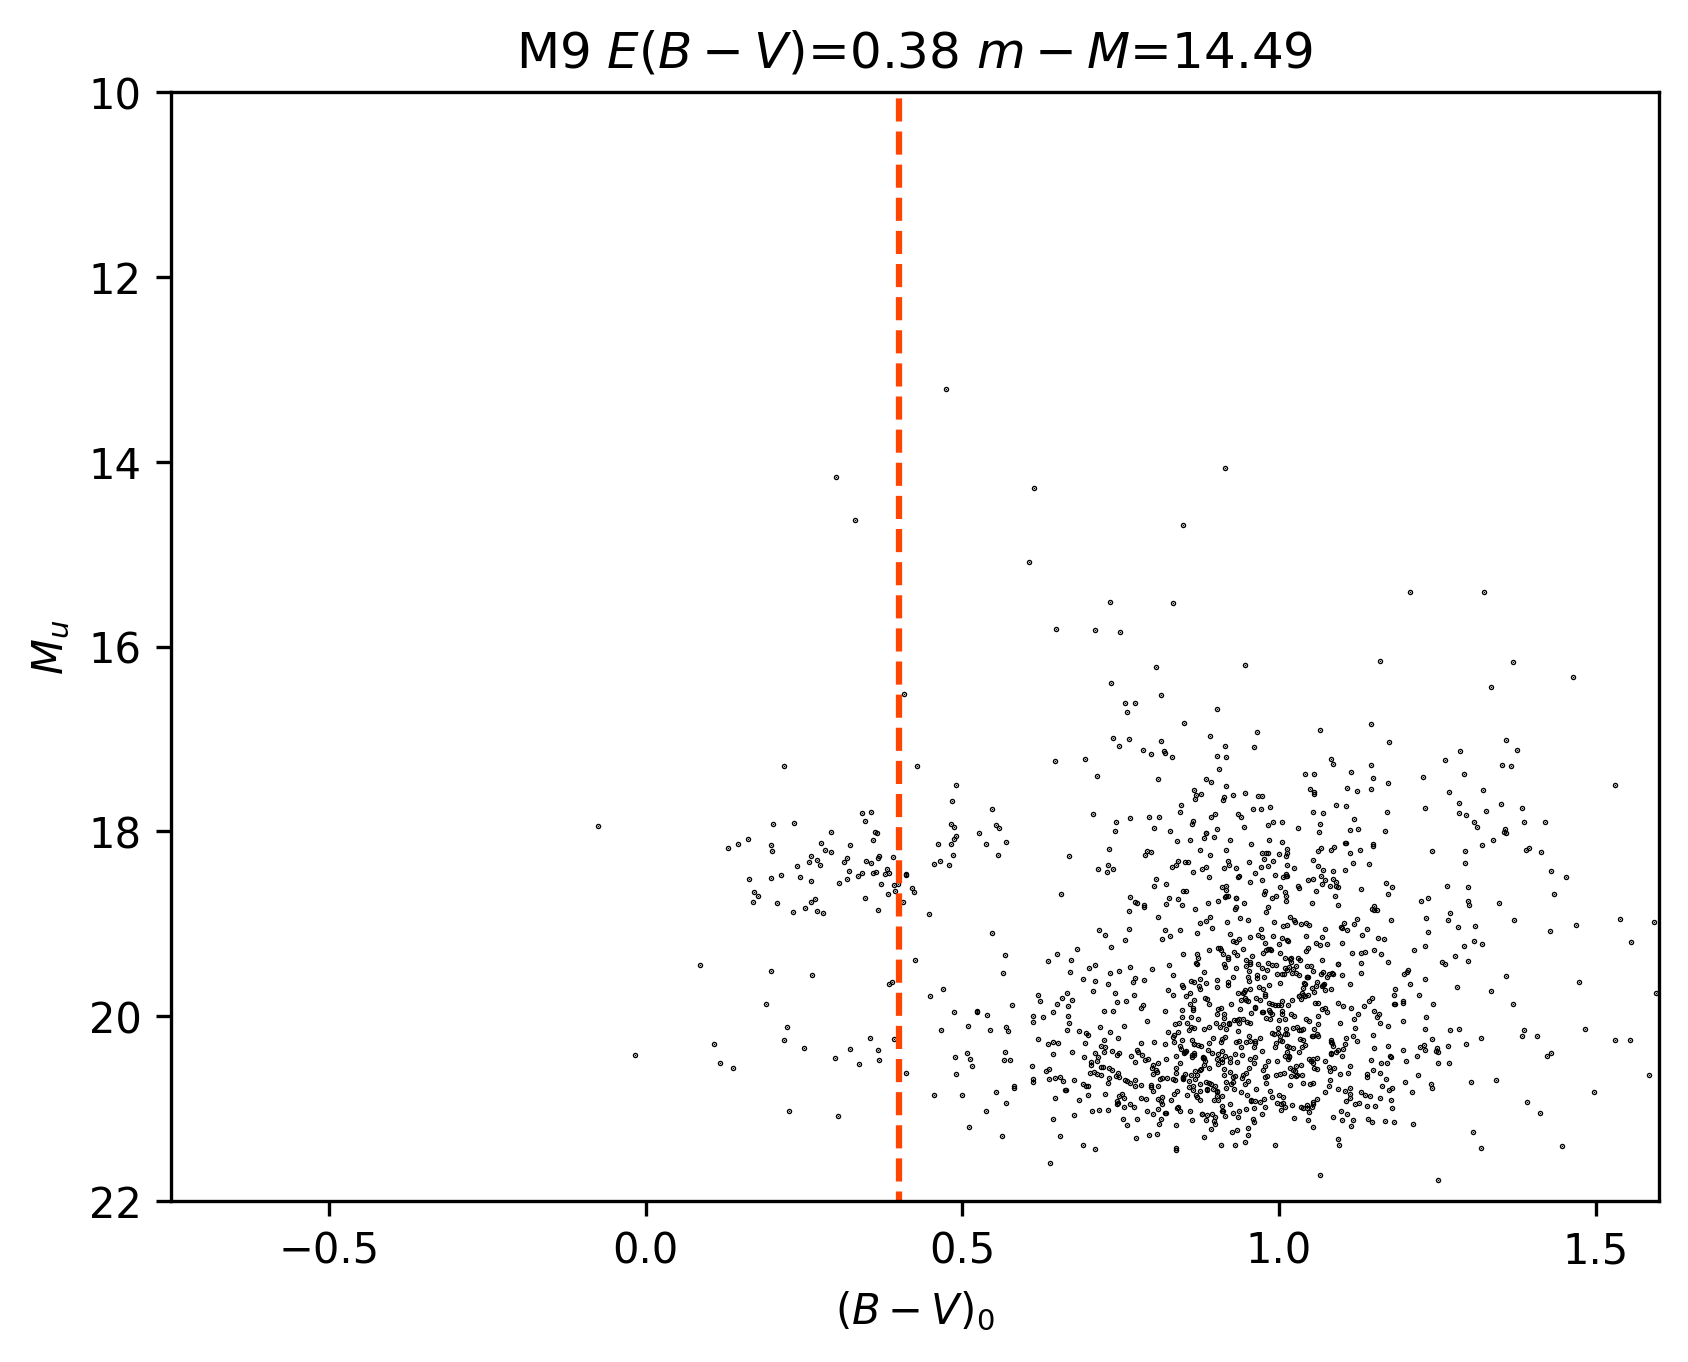
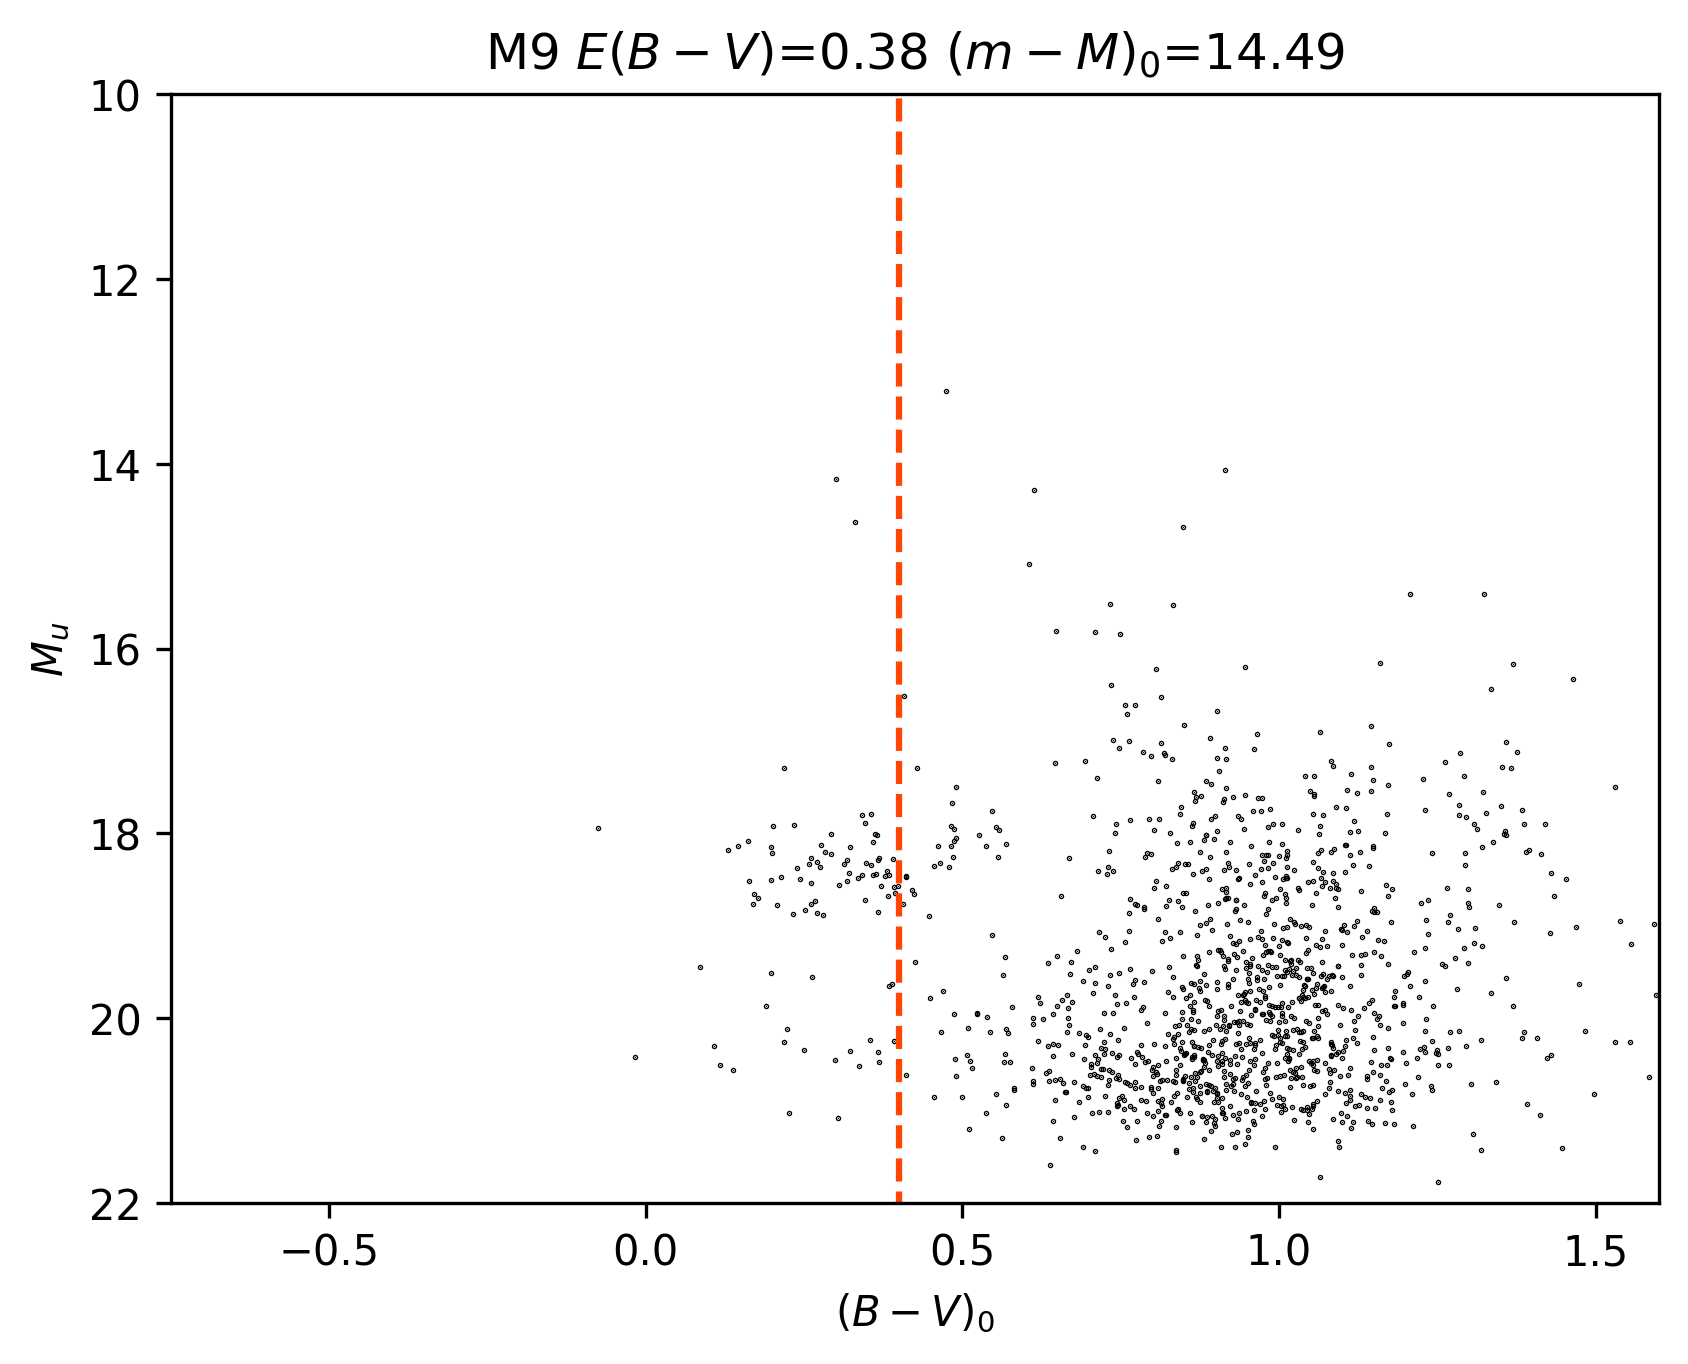
Changed parallax check to 5 sigma instead of 3 sigma, added _0 to distance modulus in plots and files.

diff --git a/trial.py b/trial.py
@@ -13,7 +13,7 @@ import logging
 ## Explainer: Currently creating CMDs using unprocessed (dereddening), observed mag values. CandStar lists of both UBV
 ## and VBV are produced. HEB checking individuals.
 
-ext = "testing123"
+ext = "5Sigma"
 
 def coordTransfer(ra, dec):
     raString = ra.split(" ")
@@ -123,7 +123,7 @@ def DBSCANPlots(bv,v,b,u,vi,ub,ubbv,clusterName,cond,dist,raClust,decClust,c,r_c
     clusterCore = coordTransfer(raClust, decClust)
     angSep = arcMinAngularSep(clusterCore[0],clusterCore[1], dat2["col2"],dat2["col3"])
     parStarErr, parDiff = parallaxError(dist)
-    parCond = np.where(parDiff < 3*parStarErr)[0]
+    parCond = np.where(parDiff < 5*parStarErr)[0]
     tidalRad = tidalRadius(c,r_c)
     tidalCond = np.where(angSep<tidalRad)[0]
     indAll = np.intersect1d(indAll, tidalCond)
@@ -148,7 +148,7 @@ def DBSCANPlots(bv,v,b,u,vi,ub,ubbv,clusterName,cond,dist,raClust,decClust,c,r_c
 
     #HB Model Equation
     y2 = model_f(bv[indAll], -3.74, 7.03, 6.83, -19.86, 8.98, -1.51, 0.35,0.05)
-    y_u = model_f(bv[indAll], -3.74, 7.03, 6.83, -19.86, 8.98, -1.51, 1.65, 0.5)
+    y_u = model_f(bv[indAll], -3.74, 7.03, 6.83, -19.86, 8.98, -1.51, 1.65, 0.8)
 
     #y2 = model_f(bv[indAll], -3.74, 7.03, 6.83, -19.86, 8.98, -1.51, 0.83)
     UVBrightCond = np.logical_and(v[indAll]<y2,bv[indAll]<-0.05)
@@ -171,7 +171,7 @@ def DBSCANPlots(bv,v,b,u,vi,ub,ubbv,clusterName,cond,dist,raClust,decClust,c,r_c
     # y2 = model_f(bvRaw[indAll], -3.74, 7.03, 6.83, -19.86, 8.98, -1.51, 0.35, -0.15)
     # y2 = model_f(bv[indAll], -3.74, 7.03, 6.83, -19.86, 8.98, -1.51, 0.83)
     ax.scatter(bvRaw[indAll][UVBrightCond], vRaw[indAll][UVBrightCond], c='g', s=2)
-    ax.set_title("{} $E(B-V)$={:.2f} $m-M$={:.2f}".format(clusterName, ebv, distModulus))
+    ax.set_title("{} $E(B-V)$={:.2f} $(m-M)_0$={:.2f}".format(clusterName, ebv, distModulus))
     ax.set_xlim(-0.75, 1.3)
     ax.set_ylim(21, 11.5)
     ax.set_xlabel('$B-V$')
@@ -192,7 +192,7 @@ def DBSCANPlots(bv,v,b,u,vi,ub,ubbv,clusterName,cond,dist,raClust,decClust,c,r_c
     # y2 = model_f(bvRaw[indAll], -3.74, 7.03, 6.83, -19.86, 8.98, -1.51, 0.35, -0.15)
     # y2 = model_f(bv[indAll], -3.74, 7.03, 6.83, -19.86, 8.98, -1.51, 0.83)
     ax.scatter(bvRaw[indAll][UVBrightCond1], uRaw[indAll][UVBrightCond1], c='g', s=2)
-    ax.set_title("{} $E(B-V)$={:.2f} $m-M$={:.2f}".format(clusterName, ebv, distModulus))
+    ax.set_title("{} $E(B-V)$={:.2f} $(m-M)_0$={:.2f}".format(clusterName, ebv, distModulus))
     ax.set_xlim(-0.75, 1.3)
     ax.set_ylim(21, 13.5)
     ax.set_xlabel('$B-V$')
@@ -253,7 +253,7 @@ def DBSCANPlots(bv,v,b,u,vi,ub,ubbv,clusterName,cond,dist,raClust,decClust,c,r_c
     #ax.set_xlabel('(\textit{$B-V$})$_0$')
     ax.set_ylabel('M$_V$', style="italic")
     #ax.legend(loc="lower right", fontsize = "small")
-    ax.set_title("{} $E(B-V)$={:.2f} $m-M$={:.2f}".format(clusterName,ebv,distModulus))
+    ax.set_title("{} $E(B-V)$={:.2f} $(m-M)_0$={:.2f}".format(clusterName,ebv,distModulus))
     #fig.savefig('Plots/DBSCAN/VBV/VvsBV_%s_DBSCAN.png'%(clusterName,ext),bbox_inches='tight',dpi=300)
     fig.savefig('Plots/DBSCAN/VBV/VvsBV_%s_DBSCAN_%s.png'%(clusterName,ext),bbox_inches='tight',dpi=300)    
     #breakpoint()
@@ -266,7 +266,7 @@ def DBSCANPlots(bv,v,b,u,vi,ub,ubbv,clusterName,cond,dist,raClust,decClust,c,r_c
     ax.set_ylim(22, 10)
     ax.set_xlabel('($B-V$)$_0$')
     ax.set_ylabel('M$_V$', style="italic")
-    ax.set_title("{} $E(B-V)$={:.2f} $m-M$={:.2f}".format(clusterName, ebv, distModulus))
+    ax.set_title("{} $E(B-V)$={:.2f} $(m-M)_0$={:.2f}".format(clusterName, ebv, distModulus))
     # xplot = np.linspace(bvRaw[indAll].min(), bvRaw[indAll].max(), len(bv[indAll]))
     # y = model_f(xplot, -3.74, 7.03, 6.83, -19.86, 8.98, -1.51, 0.35, -0.15)
     # ax.plot(xplot, y, "r-")
@@ -279,7 +279,7 @@ def DBSCANPlots(bv,v,b,u,vi,ub,ubbv,clusterName,cond,dist,raClust,decClust,c,r_c
     ax.set_ylim(22, 10)
     ax.set_xlabel('($B-V$)$_0$')
     ax.set_ylabel('M$_u$', style="italic")
-    ax.set_title("{} $E(B-V)$={:.2f} $m-M$={:.2f}".format(clusterName, ebv, distModulus))
+    ax.set_title("{} $E(B-V)$={:.2f} $(m-M)_0$={:.2f}".format(clusterName, ebv, distModulus))
     # xplot = np.linspace(bvRaw[indAll].min(), bvRaw[indAll].max(), len(bv[indAll]))
     # y = model_f(xplot, -3.74, 7.03, 6.83, -19.86, 8.98, -1.51, 0.35, -0.15)
     # ax.plot(xplot, y, "r-")
@@ -317,7 +317,7 @@ def DBSCANPlots(bv,v,b,u,vi,ub,ubbv,clusterName,cond,dist,raClust,decClust,c,r_c
     #y = model_f(xplot, -3.74, 7.03, 6.83, -19.86, 8.98, -1.51, 2.1)
     xplot = np.linspace(bv[indAll].min(), bv[indAll].max(), len(bv[indAll]))
     # x_array = np.linspace(-0.6,1.3,100)
-    y = model_f(xplot, -3.74, 7.03, 6.83, -19.86, 8.98, -1.51, 1.65,0.5)
+    y = model_f(xplot, -3.74, 7.03, 6.83, -19.86, 8.98, -1.51, 1.65,0.8)
     # y = model_f(xplot, -3.74, 7.03, 6.83, -19.86, 8.98, -1.51, 0.83)
     ax.plot(xplot, y, "r-")
     ax.vlines(x=-0.05, ymin=-4, ymax=5)
@@ -330,7 +330,7 @@ def DBSCANPlots(bv,v,b,u,vi,ub,ubbv,clusterName,cond,dist,raClust,decClust,c,r_c
     #UVBrightCond = np.logical_and(u[indAll]<y2,bv[indAll]<-0.05)
     UVBrightCond1 = np.logical_and(u[indAll] < y_u, bv[indAll] < -0.05)
     ax.scatter(bv[indAll][UVBrightCond1],u[indAll][UVBrightCond1],c='g',s=2)
-    ax.set_title("{} $E(B-V)$={:.2f} $m-M$={:.2f}".format(clusterName, ebv, distModulus))
+    ax.set_title("{} $E(B-V)$={:.2f} $(m-M)_0$={:.2f}".format(clusterName, ebv, distModulus))
     ax.set_xlim(-0.75,1.3)
     ax.set_ylim(5,-4)
     ax.set_xlabel('($B-V$)$_0$')
@@ -398,10 +398,10 @@ def DBSCANPlots(bv,v,b,u,vi,ub,ubbv,clusterName,cond,dist,raClust,decClust,c,r_c
 
     #infiles = np.savetxt("candStars/CSVs/%s_candStars_%s.dat"%(clusterName,ext),fileArray, fmt="%d,%.6f,%.6f,%.2f,%.2f,%.2f,%.2f,%.4f,%.4f,%.4f,%.4f,%i", delimiter = ",",header="#,RA,Dec,(B-V)0,Mu,Mb,Mv,u,B,V,I,BlueFlag,E(B-V)={:.2f}, m-M = {:.2f},BlueFlag Note: if (V-I)0 > 0.331 + 1.444 * (B-V)0 then BlueFlag = 0".format(ebv,distModulus))
     #infiles1 = np.savetxt("candStars/TSVs/%s_candStars_%s.dat"%(clusterName,ext),fileArray2, fmt="%s\t%s\t%s\t%.2f\t%.2f\t%.2f\t%.2f\t%.4f\t%.4f\t%.4f\t%.4f\t%i", delimiter = "\t",header="{} E(B-V)={:.2f}, m-M = {:.2f}\nBlueFlag Note: if (V-I)0 > 0.331 + 1.444 * (B-V)0 then BlueFlag = 0\n\tRA\t\tDec\t\t(B-V)_0\tM_u\tM_B\tM_V\tu\tB\tV\tI\tBlueFlag".format(clusterName,ebv, distModulus))
-    infiles2 = np.savetxt("clusterMembers/%s_memberStars_%s.dat"%(clusterName,ext),fileArray3, fmt="%s\t%s\t%s\t%.2f\t%.2f\t%.2f\t%.2f\t%.4f\t%.4f\t%.4f\t%.4f\t%i", delimiter = "\t",header="{} E(B-V)={:.2f}, m-M = {:.2f}\nBlueFlag Note: if (V-I)0 > 0.331 + 1.444 * (B-V)0 then BlueFlag = 0\n\tRA\t\tDec\t\t(B-V)_0\tM_u\tM_B\tM_V\tu\tB\tV\tI\tBlueFlag".format(clusterName,ebv, distModulus))
+    infiles2 = np.savetxt("clusterMembers/%s_memberStars_%s.dat"%(clusterName,ext),fileArray3, fmt="%s\t%s\t%s\t%.2f\t%.2f\t%.2f\t%.2f\t%.4f\t%.4f\t%.4f\t%.4f\t%i", delimiter = "\t",header="{} E(B-V)={:.2f}, (m-M)_0 = {:.2f}\nBlueFlag Note: if (V-I)0 > 0.331 + 1.444 * (B-V)0 then BlueFlag = 0\n\tRA\t\tDec\t\t(B-V)_0\tM_u\tM_B\tM_V\tu\tB\tV\tI\tBlueFlag".format(clusterName,ebv, distModulus))
     #infiles3 = np.savetxt("candStars/TSVs/uBVCandStars/%s_uBVcandStars_%s.dat"%(clusterName,ext),fileArray4, fmt="%s\t%s\t%s\t%.2f\t%.2f\t%.2f\t%.2f\t%.4f\t%.4f\t%.4f\t%.4f\t%i", delimiter = "\t",header="{} E(B-V)={:.2f}, m-M = {:.2f}\nBlueFlag Note: if (V-I)0 > 0.331 + 1.444 * (B-V)0 then BlueFlag = 0\n\tRA\t\tDec\t\t(B-V)_0\tM_u\tM_B\tM_V\tu\tB\tV\tI\tBlueFlag".format(clusterName,ebv, distModulus))
-    infiles4 = np.savetxt("nonMembers/%s_nonMembers_%s.dat"%(clusterName, ext),fileArray5, fmt="%s\t%s\t%s\t%.2f\t%.2f\t%.2f\t%.2f\t%.4f\t%.4f\t%.4f\t%.4f", delimiter = "\t",header="{} E(B-V)={:.2f}, m-M = {:.2f}\n\tRA\t\tDec\t\t(B-V)_0\tM_u\tM_B\tM_V\tu\tB\tV\tI".format(clusterName,ebv, distModulus))
-    infiles5 = np.savetxt("candStars/candStarMasterList/%s_candStarsMaster_%s.dat"%(clusterName,ext),candStarMasterList, fmt="%s\t%s\t%s\t%.2f\t%.2f\t%.2f\t%.2f\t%.4f\t%.4f\t%.4f\t%.4f\t%i", delimiter = "\t",header="{} E(B-V)={:.2f}, m-M = {:.2f}\nBlueFlag Note: if (V-I)0 > 0.331 + 1.444 * (B-V)0 then BlueFlag = 0\n\tRA\t\tDec\t\t(B-V)_0\tM_u\tM_B\tM_V\tu\tB\tV\tI\tBlueFlag".format(clusterName,ebv, distModulus))
+    infiles4 = np.savetxt("nonMembers/%s_nonMembers_%s.dat"%(clusterName, ext),fileArray5, fmt="%s\t%s\t%s\t%.2f\t%.2f\t%.2f\t%.2f\t%.4f\t%.4f\t%.4f\t%.4f", delimiter = "\t",header="{} E(B-V)={:.2f}, (m-M)_0 = {:.2f}\n\tRA\t\tDec\t\t(B-V)_0\tM_u\tM_B\tM_V\tu\tB\tV\tI".format(clusterName,ebv, distModulus))
+    infiles5 = np.savetxt("candStars/candStarMasterList/%s_candStarsMaster_%s.dat"%(clusterName,ext),candStarMasterList, fmt="%s\t%s\t%s\t%.2f\t%.2f\t%.2f\t%.2f\t%.4f\t%.4f\t%.4f\t%.4f\t%i", delimiter = "\t",header="{} E(B-V)={:.2f}, (m-M)_0 = {:.2f}\nBlueFlag Note: if (V-I)0 > 0.331 + 1.444 * (B-V)0 then BlueFlag = 0\n\tRA\t\tDec\t\t(B-V)_0\tM_u\tM_B\tM_V\tu\tB\tV\tI\tBlueFlag".format(clusterName,ebv, distModulus))
 
     '''
     fig, ax = plt.subplots()
@@ -446,7 +446,7 @@ def VBVplotBestFit(bv,v,clusterName,dist,ebv):
     ax.set_ylim(5,-4)
     ax.set_xlabel('($B-V$)$_0$')
     ax.set_ylabel('$M_V$')
-    ax.set_title("{} $E(B-V)$={:.2f} $m-M$={:.2f}".format(clusterName,ebv,distModulus))
+    ax.set_title("{} $E(B-V)$={:.2f} $(m-M)_0$={:.2f}".format(clusterName,ebv,distModulus))
     
     fig.savefig('Plots/VBV/VvsBV_%s_%s.png'%(clusterName,ext),bbox_inches='tight',dpi=300)
 
@@ -531,7 +531,7 @@ def dereddenPlot(bvRAW,vRAW,bv,v,clusterName,dist,ebv):
     ax.set_ylim(5,-4)
     ax.set_xlabel('($B-V$)$_0$')
     ax.set_ylabel('$M_V$')
-    ax.set_title("{} $E(B-V)$={:.2f} $m-M$={:.2f}".format(clusterName,ebv,distModulus))
+    ax.set_title("{} $E(B-V)$={:.2f} $(m-M)_0$={:.2f}".format(clusterName,ebv,distModulus))
     
     fig.savefig('Plots/deRed/VvsBV_%s.png'%(clusterName,ext),bbox_inches='tight',dpi=300)
 
